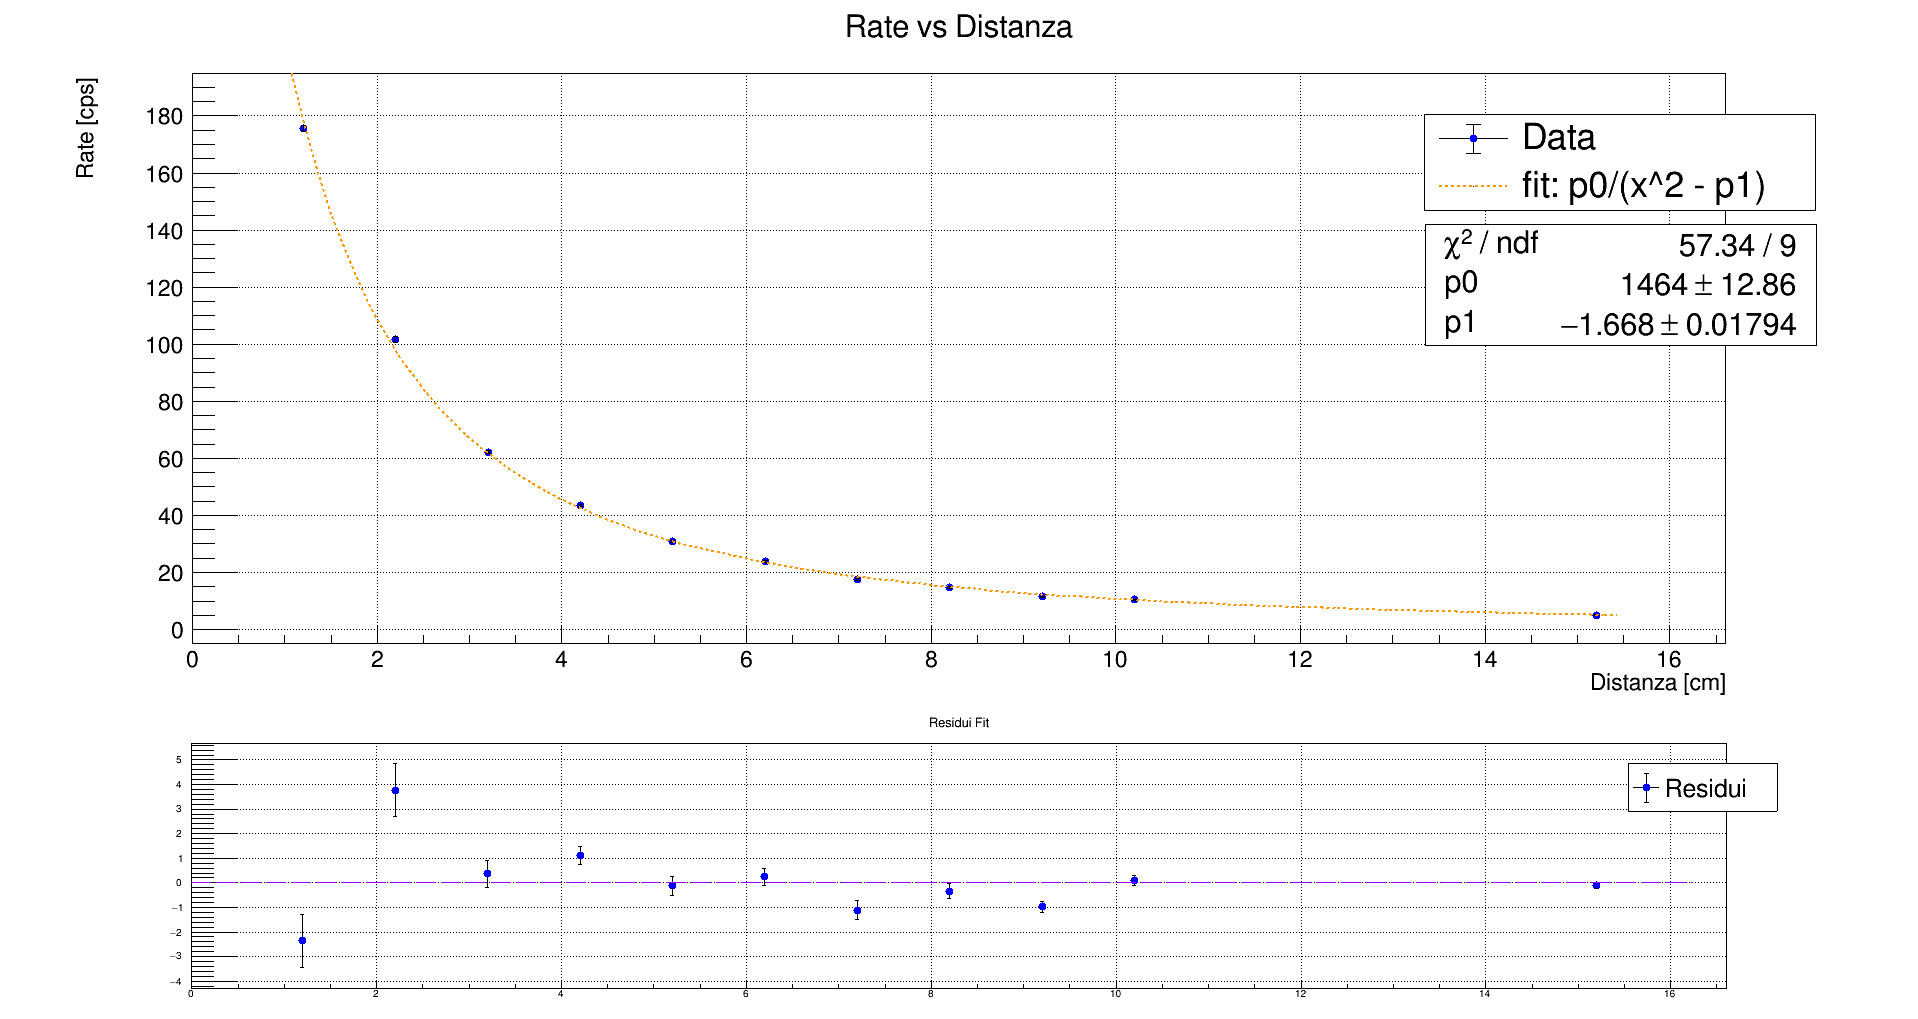
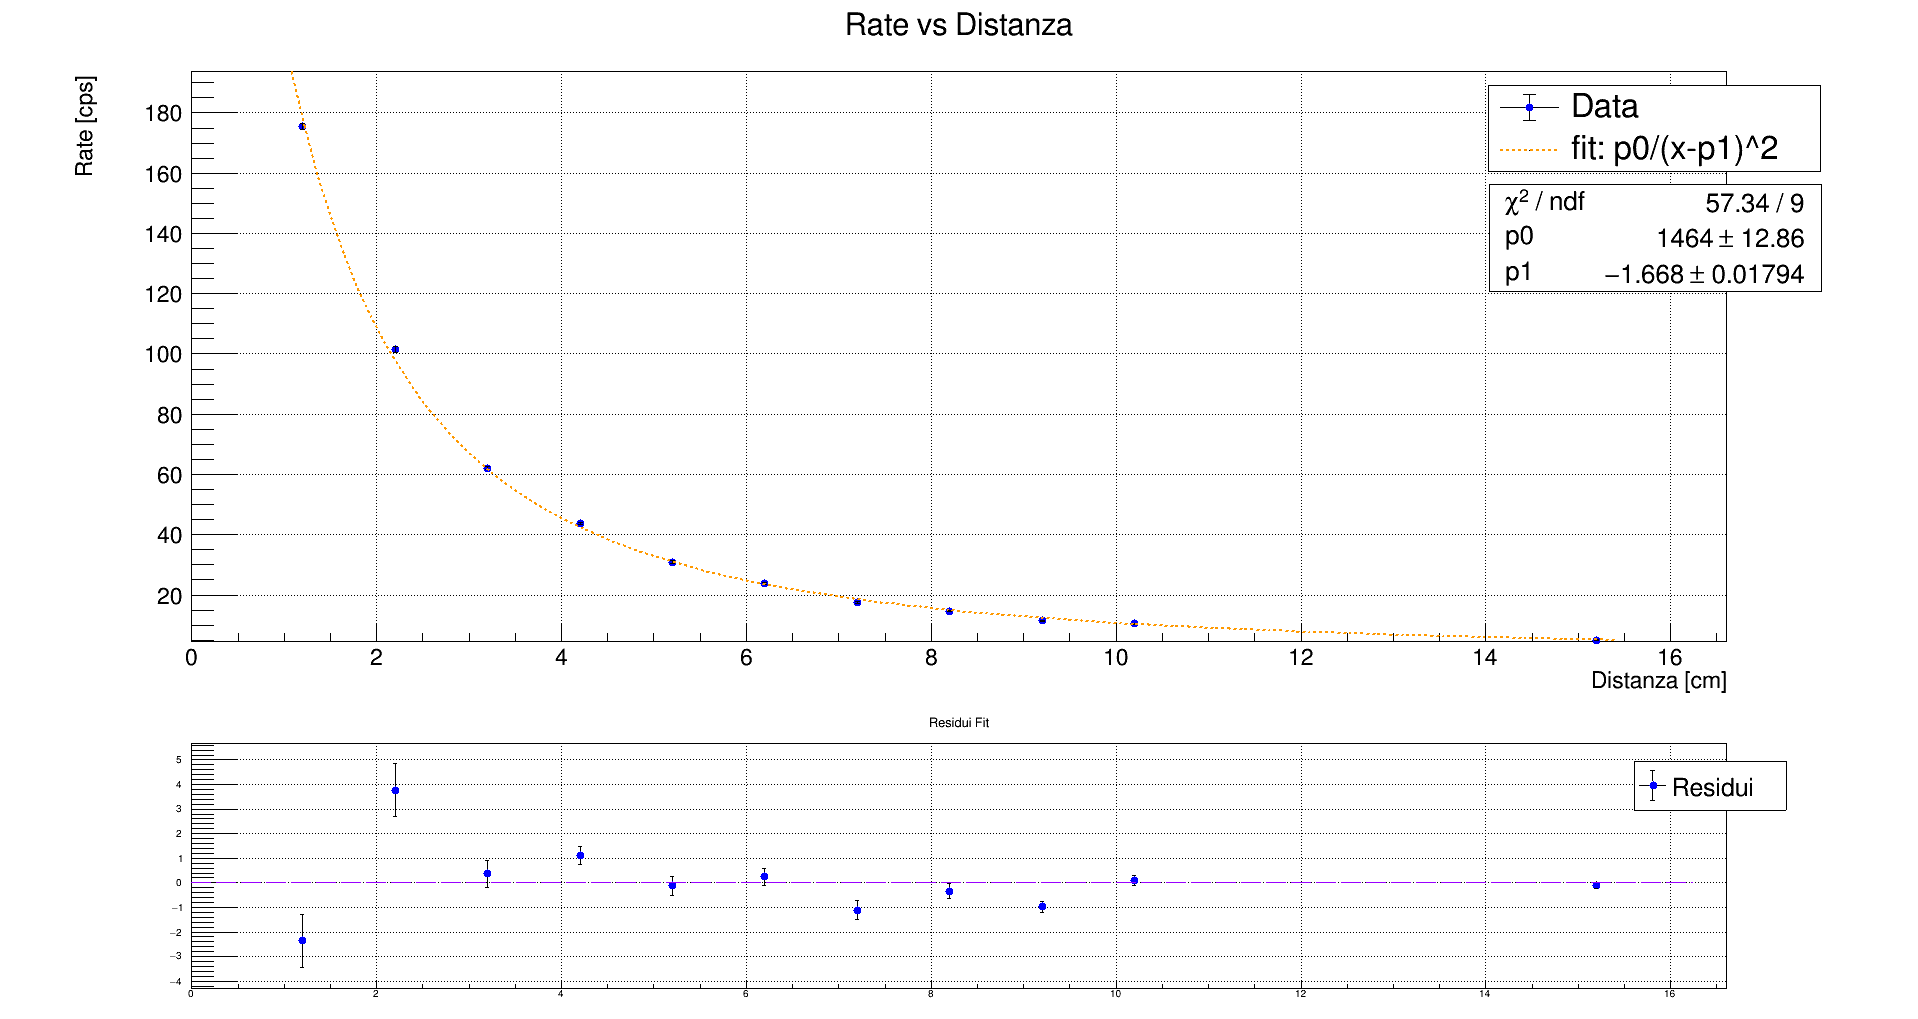
update
correzione della legend nel grafico del rate in funzione della distanza

diff --git a/spettroscopia/fotodiodo/analisi/code/DistanceCalculator.cc b/spettroscopia/fotodiodo/analisi/code/DistanceCalculator.cc
@@ -98,7 +98,7 @@ int main( int argN, char* argL[] ){
   
     auto legend = new TLegend();
     legend -> AddEntry( graph, "Data", "lpe");
-    legend -> AddEntry( fit, "fit: p0/(x^2 - p1)", "lp");
+    legend -> AddEntry( fit, "fit: p0/(x-p1)^2", "lp");
     legend -> Draw();
     
     pad1 -> SetGrid();
